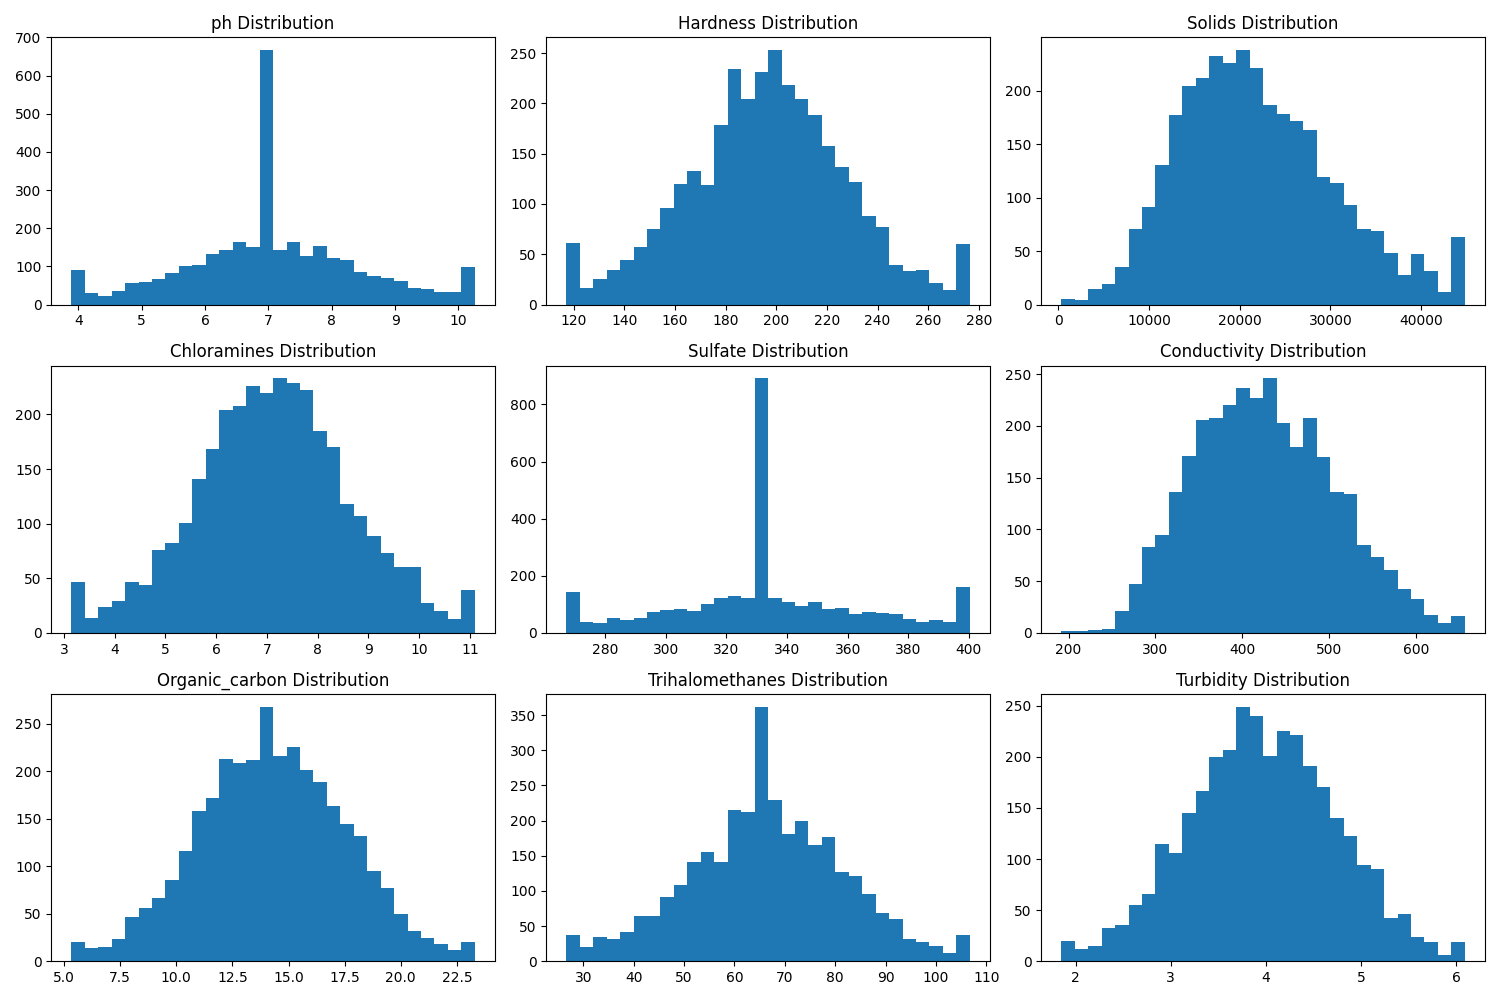
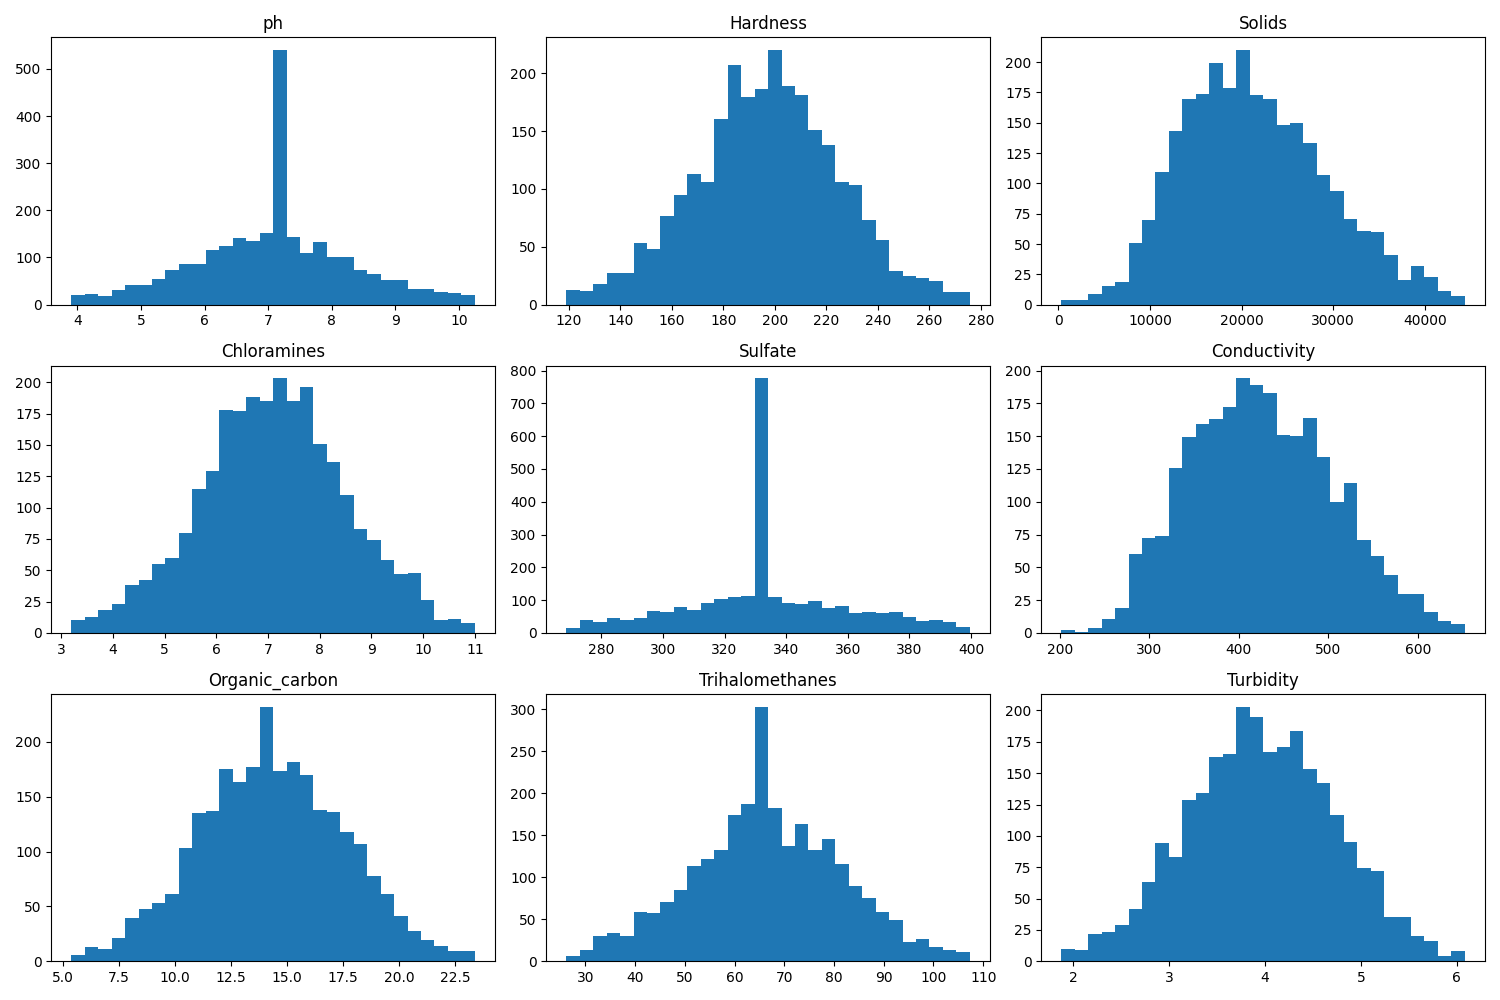
remove skewness

diff --git a/main.py b/main.py
@@ -50,12 +50,6 @@ for column in df_cleaned.columns:
 # Handle outliers
 df_cleaned = handle_outliers(df_cleaned, df_cleaned.drop('Potability', axis=1).columns)
 
-# Handle skewness
-for column in df_cleaned.columns:
-    if column != 'Potability':
-        skewness = df_cleaned[column].skew()
-        if abs(skewness) > 1:
-            df_cleaned[column] = np.log1p(df_cleaned[column] - df_cleaned[column].min() + 1)
 
 # Target distribution plot
 plt.figure(figsize=(10, 5))

diff --git a/3model.py b/3model.py
@@ -52,10 +52,6 @@ def remove_outliers(df, columns):
 # Menghapus outlier
 df_cleaned = remove_outliers(df, X.columns)
 
-# Memeriksa skewness dan melakukan transformasi log jika diperlukan
-for column in X.columns:
-    if abs(df_cleaned[column].skew()) > 1:
-        df_cleaned[column] = np.log1p(df_cleaned[column] - df_cleaned[column].min() + 1)
 
 # Update X dan y setelah cleaning
 X = df_cleaned.drop('Potability', axis=1)
